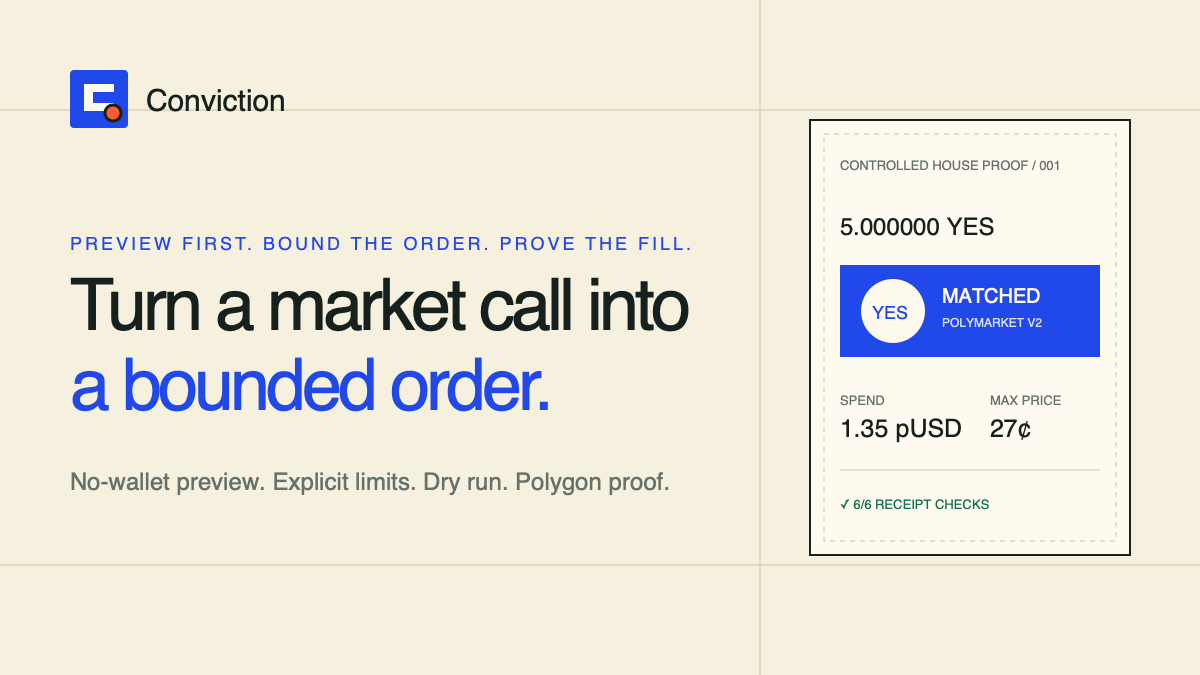
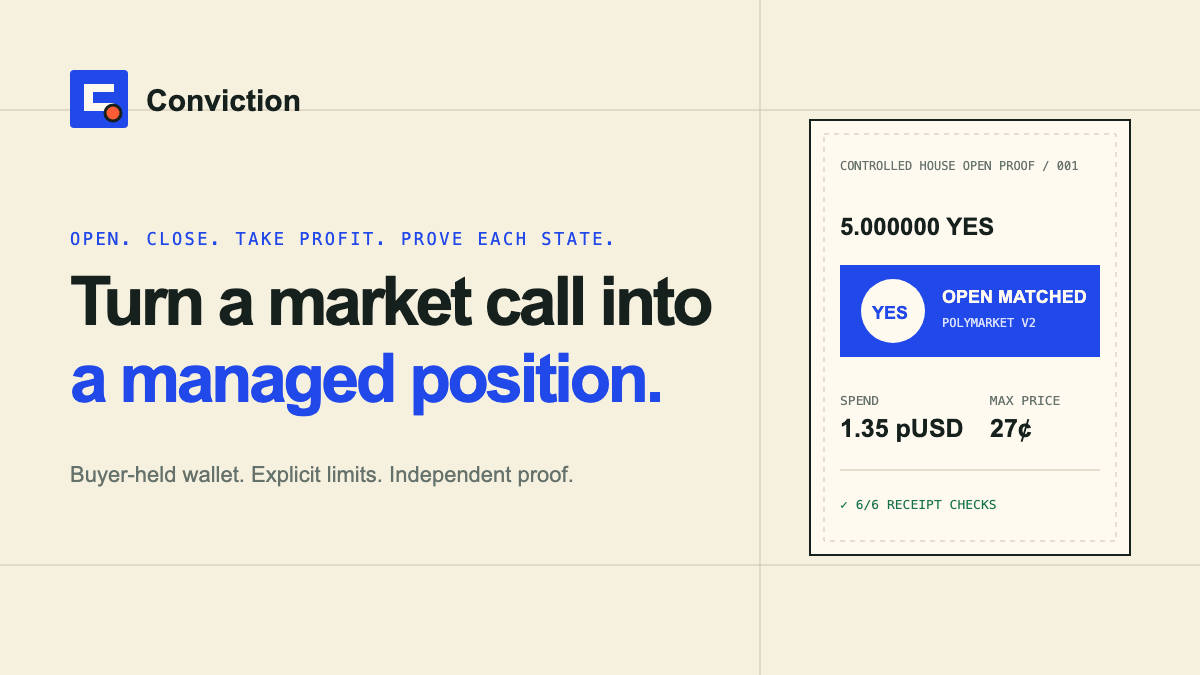
Polish managed-position launch surfaces

diff --git a/styles.css b/styles.css
@@ -9,7 +9,9 @@
   --orange: #c23c20;
   --green: #16734b;
   --shadow: 10px 10px 0 #16211e;
-  font-family: "Manrope", system-ui, sans-serif;
+  --font-sans: ui-sans-serif, system-ui, -apple-system, BlinkMacSystemFont, "Segoe UI", sans-serif;
+  --font-mono: ui-monospace, SFMono-Regular, Menlo, Monaco, Consolas, "Liberation Mono", monospace;
+  font-family: var(--font-sans);
   color: var(--ink);
   background: var(--paper);
   font-synthesis: none;
@@ -21,7 +23,7 @@ body { margin: 0; min-width: 320px; max-width: 100%; background: var(--paper); o
 a { color: inherit; }
 button, input, textarea { font: inherit; }
 button { cursor: pointer; }
-code { font-family: "DM Mono", monospace; }
+code { font-family: var(--font-mono); }
 
 .skip-link {
   position: fixed; left: 1rem; top: 1rem; z-index: 100;
@@ -40,7 +42,7 @@ code { font-family: "DM Mono", monospace; }
 nav { display: flex; gap: 1.8rem; }
 nav a { text-decoration: none; color: var(--muted); font-size: .92rem; font-weight: 700; }
 nav a:hover { color: var(--ink); }
-.network-pill { display: inline-flex; align-items: center; gap: .5rem; border: 1px solid var(--line); border-radius: 999px; padding: .48rem .75rem; font: 500 .72rem "DM Mono", monospace; text-transform: uppercase; }
+.network-pill { display: inline-flex; align-items: center; gap: .5rem; border: 1px solid var(--line); border-radius: 999px; padding: .48rem .75rem; font: 500 .72rem var(--font-mono); text-transform: uppercase; }
 .network-pill i { width: 8px; height: 8px; border-radius: 50%; background: var(--green); box-shadow: 0 0 0 4px rgb(22 115 75 / .12); }
 
 main { overflow: hidden; }
@@ -49,7 +51,7 @@ main { overflow: hidden; }
 }
 .hero { min-height: 690px; display: grid; grid-template-columns: 1.03fr .97fr; gap: 6vw; align-items: center; padding: 70px 0 90px; }
 .hero-copy { min-width: 0; }
-.eyebrow { margin: 0 0 1rem; font: 500 .76rem "DM Mono", monospace; letter-spacing: .12em; text-transform: uppercase; color: var(--blue); }
+.eyebrow { margin: 0 0 1rem; font: 500 .76rem var(--font-mono); letter-spacing: .12em; text-transform: uppercase; color: var(--blue); }
 h1, h2, h3, p { text-wrap: balance; }
 h1 { margin: 0; max-width: 780px; font-size: clamp(3.4rem, 6.7vw, 7.2rem); line-height: .91; letter-spacing: -.075em; }
 h1 em { font-style: normal; color: var(--blue); }
@@ -61,12 +63,12 @@ h1 em { font-style: normal; color: var(--blue); }
 .button-quiet { background: transparent; }
 .button-quiet:hover { background: var(--paper-bright); }
 .button:focus-visible, .dossier-button:focus-visible, a:focus-visible, input:focus-visible, textarea:focus-visible { outline: 3px solid var(--orange); outline-offset: 3px; }
-.trust-strip { display: flex; flex-wrap: wrap; gap: 1.4rem; list-style: none; padding: 0; margin: 2.1rem 0 0; color: var(--muted); font: 500 .73rem "DM Mono", monospace; }
+.trust-strip { display: flex; flex-wrap: wrap; gap: 1.4rem; list-style: none; padding: 0; margin: 2.1rem 0 0; color: var(--muted); font: 500 .73rem var(--font-mono); }
 .trust-strip li::before { content: "✓"; color: var(--green); margin-right: .45rem; font-weight: 800; }
 
 .fill-ticket { position: relative; padding: 1.35rem; background: var(--paper-bright); border: 1px solid var(--ink); box-shadow: var(--shadow); transform: rotate(1.4deg); }
 .fill-ticket::after { content: ""; position: absolute; inset: 8px; pointer-events: none; border: 1px dashed var(--line); }
-.ticket-topline, .ticket-proof { position: relative; z-index: 1; display: flex; align-items: center; justify-content: space-between; gap: 1rem; font: 500 .68rem "DM Mono", monospace; text-transform: uppercase; }
+.ticket-topline, .ticket-proof { position: relative; z-index: 1; display: flex; align-items: center; justify-content: space-between; gap: 1rem; font: 500 .68rem var(--font-mono); text-transform: uppercase; }
 .verified-mark { color: var(--green); border: 1px solid var(--green); padding: .32rem .55rem; transform: rotate(-4deg); }
 .fill-ticket h2 { position: relative; z-index: 1; margin: 3.8rem 0 2rem; max-width: 500px; font-size: clamp(1.65rem, 3vw, 2.6rem); line-height: 1.08; letter-spacing: -.045em; }
 .ticket-direction { position: relative; z-index: 1; display: flex; align-items: center; gap: 1rem; background: var(--blue); color: white; padding: 1rem; }
@@ -78,7 +80,7 @@ h1 em { font-style: normal; color: var(--blue); }
 .ticket-grid div { padding: .9rem; }
 .ticket-grid div:nth-child(odd) { border-right: 1px solid var(--line); }
 .ticket-grid div:nth-child(-n+2) { border-bottom: 1px solid var(--line); }
-.ticket-grid dt { color: var(--muted); font: 500 .66rem "DM Mono", monospace; text-transform: uppercase; }
+.ticket-grid dt { color: var(--muted); font: 500 .66rem var(--font-mono); text-transform: uppercase; }
 .ticket-grid dd { margin: .3rem 0 0; font-weight: 800; }
 .ticket-proof { padding-top: .7rem; text-transform: none; }
 .ticket-proof code { overflow: hidden; text-overflow: ellipsis; }
@@ -90,7 +92,7 @@ h1 em { font-style: normal; color: var(--blue); }
 .loop-steps { list-style: none; padding: 0; margin: 3.5rem 0 0; display: grid; grid-template-columns: repeat(4, 1fr); border: 1px solid var(--ink); }
 .loop-steps li { min-height: 240px; padding: 1.4rem; background: var(--paper-bright); border-right: 1px solid var(--ink); }
 .loop-steps li:last-child { border-right: 0; }
-.loop-steps span { font: 500 .72rem "DM Mono", monospace; color: var(--orange); }
+.loop-steps span { font: 500 .72rem var(--font-mono); color: var(--orange); }
 .loop-steps h3 { margin: 4.8rem 0 .65rem; font-size: 1.08rem; }
 .loop-steps p { margin: 0; color: var(--muted); line-height: 1.55; font-size: .9rem; }
 
@@ -100,7 +102,7 @@ h1 em { font-style: normal; color: var(--blue); }
 .proof-links { display: flex; flex-wrap: wrap; gap: .25rem 1.25rem; }
 .receipt-ledger { align-self: center; border-top: 2px solid var(--ink); background: var(--paper-bright); }
 .receipt-ledger > div { display: grid; grid-template-columns: 44px 1fr auto; gap: .6rem; align-items: center; padding: 1rem .8rem; border-bottom: 1px solid var(--line); }
-.receipt-ledger span, .receipt-ledger b { font: 500 .7rem "DM Mono", monospace; }
+.receipt-ledger span, .receipt-ledger b { font: 500 .7rem var(--font-mono); }
 .receipt-ledger b { color: var(--green); }
 .receipt-ledger footer { padding: 1rem .8rem; display: grid; gap: .45rem; background: var(--ink); color: white; }
 .receipt-ledger footer span { color: #aab5af; }
@@ -110,7 +112,7 @@ h1 em { font-style: normal; color: var(--blue); }
 .journey-progress { display: grid; grid-template-columns: repeat(4, 1fr); list-style: none; padding: 0; margin: 3rem 0 0; border: 1px solid var(--line); background: var(--paper-bright); }
 .journey-progress li { display: flex; align-items: center; gap: .65rem; padding: .8rem; border-right: 1px solid var(--line); color: var(--muted); font-size: .78rem; font-weight: 800; }
 .journey-progress li:last-child { border-right: 0; }
-.journey-progress span { display: grid; place-items: center; width: 24px; height: 24px; border: 1px solid var(--line); border-radius: 50%; font: 500 .65rem "DM Mono", monospace; }
+.journey-progress span { display: grid; place-items: center; width: 24px; height: 24px; border: 1px solid var(--line); border-radius: 50%; font: 500 .65rem var(--font-mono); }
 .journey-progress .is-current { color: var(--blue); background: #edf0ff; }
 .journey-progress .is-current span { color: white; border-color: var(--blue); background: var(--blue); }
 .journey-progress .is-complete { color: var(--green); }
@@ -120,11 +122,11 @@ h1 em { font-style: normal; color: var(--blue); }
 .intent-form { display: grid; gap: 1rem; padding: 1.5rem; border-bottom: 1px solid var(--line); }
 .journey-controls > :last-child { border-bottom: 0; }
 .intent-form label { display: grid; gap: .45rem; font-size: .78rem; font-weight: 800; }
-.intent-form input, .intent-form textarea { width: 100%; border: 1px solid var(--line); border-radius: 0; padding: .8rem; background: #fffdf8; color: var(--ink); font-family: "DM Mono", monospace; font-size: .78rem; }
+.intent-form input, .intent-form textarea { width: 100%; border: 1px solid var(--line); border-radius: 0; padding: .8rem; background: #fffdf8; color: var(--ink); font-family: var(--font-mono); font-size: .78rem; }
 .intent-form input[type="file"] { padding: .65rem; }
 .intent-form [aria-invalid="true"] { border: 2px solid var(--orange); box-shadow: 0 0 0 2px rgb(194 60 32 / .16); }
 .intent-form textarea { resize: vertical; line-height: 1.55; }
-.stage-heading > span { color: var(--blue); font: 500 .66rem "DM Mono", monospace; letter-spacing: .1em; text-transform: uppercase; }
+.stage-heading > span { color: var(--blue); font: 500 .66rem var(--font-mono); letter-spacing: .1em; text-transform: uppercase; }
 .stage-heading h3, .stage-heading h4 { margin: .4rem 0; font-size: 1.15rem; }
 .stage-heading p { margin: 0; color: var(--muted); font-size: .84rem; line-height: 1.55; }
 .stage-actions { display: flex; flex-wrap: wrap; gap: .75rem; }
@@ -135,7 +137,7 @@ h1 em { font-style: normal; color: var(--blue); }
 .market-quotes { display: grid; grid-template-columns: 1fr 1fr; gap: .75rem; margin-top: 1rem; }
 .market-quotes div { padding: 1rem; border: 1px solid var(--line); background: var(--paper-bright); }
 .market-quotes span, .market-quotes strong, .market-quotes small { display: block; }
-.market-quotes span { color: var(--blue); font: 800 .72rem "DM Mono", monospace; }
+.market-quotes span { color: var(--blue); font: 800 .72rem var(--font-mono); }
 .market-quotes strong { margin-top: .4rem; font-size: 1.35rem; }
 .market-quotes small { margin-top: .15rem; color: var(--muted); }
 .field-row { display: grid; grid-template-columns: 1fr 1fr; gap: 1rem; }
@@ -143,7 +145,7 @@ h1 em { font-style: normal; color: var(--blue); }
 .outcome-selector legend { padding: 0 .35rem; font-size: .78rem; font-weight: 800; }
 .outcome-selector label { position: relative; display: block; cursor: pointer; }
 .outcome-selector input { position: absolute; opacity: 0; pointer-events: none; }
-.outcome-selector span { display: grid; place-items: center; min-height: 46px; border: 1px solid var(--line); background: #fffdf8; color: var(--muted); font: 800 .82rem "DM Mono", monospace; }
+.outcome-selector span { display: grid; place-items: center; min-height: 46px; border: 1px solid var(--line); background: #fffdf8; color: var(--muted); font: 800 .82rem var(--font-mono); }
 .outcome-selector input:checked + span { background: var(--blue); border-color: var(--blue); color: white; box-shadow: 3px 3px 0 var(--ink); }
 .outcome-selector input:focus-visible + span { outline: 3px solid var(--orange); outline-offset: 3px; }
 .compiled-card { min-width: 0; min-height: 520px; padding: 1.5rem; display: grid; align-content: start; background-image: linear-gradient(var(--line) 1px, transparent 1px), linear-gradient(90deg, var(--line) 1px, transparent 1px); background-size: 28px 28px; }
@@ -153,34 +155,34 @@ h1 em { font-style: normal; color: var(--blue); }
 .compiled-empty p, .form-status { color: var(--muted); font-size: .85rem; line-height: 1.6; }
 #compiled-result, #preview-result { min-width: 0; background: var(--paper-bright); border: 1px solid var(--ink); padding: 1.2rem; }
 .result-top { display: flex; justify-content: space-between; align-items: center; gap: 1rem; }
-.result-top b { color: var(--green); font: 500 .72rem "DM Mono", monospace; }
+.result-top b { color: var(--green); font: 500 .72rem var(--font-mono); }
 .result-market { margin: 1.8rem 0; font-size: 1.35rem; line-height: 1.2; }
 .result-order { display: grid; grid-template-columns: repeat(3, 1fr); border: 1px solid var(--line); }
 .result-order div { padding: .8rem; border-right: 1px solid var(--line); }
 .result-order div:last-child { border-right: 0; }
 .result-order small, .result-order strong { display: block; }
-.result-order small { color: var(--muted); font: 500 .64rem "DM Mono", monospace; text-transform: uppercase; }
+.result-order small { color: var(--muted); font: 500 .64rem var(--font-mono); text-transform: uppercase; }
 .result-order strong { margin-top: .3rem; }
 .exposure-panel { display: grid; grid-template-columns: repeat(3, 1fr); margin-top: 1rem; border: 1px solid var(--line); }
 .exposure-panel div { min-width: 0; padding: .7rem; border-right: 1px solid var(--line); border-bottom: 1px solid var(--line); }
 .exposure-panel div:nth-child(3n) { border-right: 0; }
 .exposure-panel div:nth-last-child(-n+2) { border-bottom: 0; }
 .exposure-panel small, .exposure-panel strong { display: block; }
-.exposure-panel small { color: var(--muted); font: 500 .6rem "DM Mono", monospace; text-transform: uppercase; }
+.exposure-panel small { color: var(--muted); font: 500 .6rem var(--font-mono); text-transform: uppercase; }
 .exposure-panel strong { margin-top: .28rem; overflow-wrap: anywhere; font-size: .82rem; }
 .result-hash { margin-top: 1.2rem; padding: .8rem; background: var(--ink); color: white; }
-.result-hash span { display: block; color: #aab5af; font: 500 .63rem "DM Mono", monospace; }
+.result-hash span { display: block; color: #aab5af; font: 500 .63rem var(--font-mono); }
 .result-hash code { display: block; margin-top: .4rem; overflow-wrap: anywhere; font-size: .68rem; }
 .dossier-button { width: 100%; margin-top: .8rem; padding: .72rem; border: 1px solid var(--ink); background: transparent; color: var(--ink); font-weight: 800; }
 .dossier-button:hover { background: var(--ink); color: white; }
 .notice { display: grid; gap: .3rem; margin-top: 1rem; padding: .85rem; border-left: 4px solid var(--blue); background: #edf0ff; font-size: .8rem; line-height: 1.5; }
 .notice-safe { border-left-color: var(--green); background: #edf8f1; }
-.quote-expiry { margin: 1rem 0 0; color: var(--green); font: 500 .72rem "DM Mono", monospace; }
+.quote-expiry { margin: 1rem 0 0; color: var(--green); font: 500 .72rem var(--font-mono); }
 .quote-expiry.is-expired { color: var(--orange); }
 .bounds-acknowledgement { display: grid; grid-template-columns: 22px 1fr; gap: .75rem; align-items: start; margin-top: 1rem; padding: .9rem; border: 1px solid var(--ink); background: #fffdf8; font-size: .8rem; font-weight: 800; line-height: 1.5; }
 .bounds-acknowledgement input { width: 18px; height: 18px; margin: .12rem 0 0; accent-color: var(--blue); }
 .handoff-panel { margin-top: 1rem; padding: 1rem; border: 1px solid var(--ink); background: var(--paper-bright); }
-.handoff-panel textarea { width: 100%; margin-top: 1rem; padding: .8rem; border: 1px solid var(--line); background: #f3f3ef; color: var(--ink); font: 500 .69rem/1.55 "DM Mono", monospace; resize: vertical; }
+.handoff-panel textarea { width: 100%; margin-top: 1rem; padding: .8rem; border: 1px solid var(--line); background: #f3f3ef; color: var(--ink); font: 500 .69rem/1.55 var(--font-mono); resize: vertical; }
 .handoff-panel .stage-actions { margin-top: .8rem; }
 .handoff-links { display: flex; flex-wrap: wrap; gap: .8rem 1.2rem; margin-top: 1rem; }
 .handoff-links a { color: var(--blue); font-size: .78rem; font-weight: 800; text-underline-offset: 3px; }
@@ -194,7 +196,7 @@ h1 em { font-style: normal; color: var(--blue); }
 .verification-proof h3 { margin: 1.5rem 0; font-size: 1.35rem; }
 .check-list { list-style: none; padding: 0; margin: 1rem 0 0; border-top: 1px solid var(--line); }
 .check-list li { display: flex; justify-content: space-between; gap: 1rem; padding: .7rem 0; border-bottom: 1px solid var(--line); font-size: .75rem; }
-.check-list b { color: var(--green); font-family: "DM Mono", monospace; }
+.check-list b { color: var(--green); font-family: var(--font-mono); }
 .verification-proof .stage-actions { margin-top: 1rem; }
 
 .safety-section { padding: 100px 0; display: grid; grid-template-columns: 1fr 1fr; gap: 7vw; border-top: 1px solid var(--line); }
@@ -209,10 +211,29 @@ h1 em { font-style: normal; color: var(--blue); }
 .policy-page h2 { margin: 0 0 .8rem; font-size: 1.35rem; }
 .policy-page p { color: #46534d; line-height: 1.75; text-wrap: pretty; }
 .policy-page a { color: var(--blue); font-weight: 800; text-underline-offset: 3px; }
-.policy-updated { font: 500 .74rem "DM Mono", monospace; }
+.policy-updated { font: 500 .74rem var(--font-mono); }
 
 @media (max-width: 860px) {
-  .site-header nav { display: none; }
+  .site-header { flex-wrap: wrap; gap: .65rem; padding: .7rem 0 .8rem; }
+  .site-header nav {
+    order: 3;
+    display: grid;
+    grid-template-columns: repeat(5, minmax(0, 1fr));
+    width: 100%;
+    gap: .3rem;
+  }
+  .site-header nav a {
+    display: grid;
+    min-width: 0;
+    min-height: 40px;
+    place-items: center;
+    padding: .45rem .2rem;
+    border: 1px solid var(--line);
+    background: var(--paper-bright);
+    font-size: clamp(.61rem, 2.4vw, .76rem);
+    line-height: 1.15;
+    text-align: center;
+  }
   .hero { grid-template-columns: 1fr; gap: 4rem; padding-top: 55px; }
   .fill-ticket { max-width: 600px; transform: none; }
   .loop-steps { grid-template-columns: 1fr 1fr; }
@@ -225,7 +246,7 @@ h1 em { font-style: normal; color: var(--blue); }
 
 @media (max-width: 560px) {
   .site-header, .site-footer, .hero, .loop, .proof-section, .compiler-section, .verification-section, .safety-section { width: min(100% - 28px, 1240px); }
-  .site-header { min-height: 70px; }
+  .site-header { min-height: 0; }
   .network-pill { width: 34px; height: 34px; justify-content: center; padding: 0; font-size: 0; }
   .hero { min-height: auto; padding: 50px 0 70px; }
   .hero-copy { width: 100%; max-width: 100%; }

diff --git a/privacy.html b/privacy.html
@@ -6,8 +6,24 @@
     <title>Privacy — Conviction</title>
     <meta name="description" content="What Conviction processes when it previews, opens, closes, manages, or verifies a bounded Polygon prediction-market position." />
     <meta name="robots" content="index,follow" />
-    <link rel="canonical" href="https://conviction-bay.vercel.app/privacy.html" />
+    <link rel="canonical" href="https://conviction-bay.vercel.app/privacy" />
+    <meta property="og:type" content="website" />
+    <meta property="og:url" content="https://conviction-bay.vercel.app/privacy" />
+    <meta property="og:title" content="Privacy — Conviction" />
+    <meta property="og:description" content="What Conviction processes when it previews, opens, closes, manages, or verifies a bounded Polygon prediction-market position." />
+    <meta property="og:image" content="https://conviction-bay.vercel.app/assets/conviction-og.png" />
+    <meta property="og:image:width" content="1200" />
+    <meta property="og:image:height" content="675" />
+    <meta property="og:image:alt" content="Conviction managed-position product card beside a controlled house YES fill." />
+    <meta name="twitter:card" content="summary_large_image" />
+    <meta name="twitter:title" content="Privacy — Conviction" />
+    <meta name="twitter:description" content="What Conviction processes when it previews, opens, closes, manages, or verifies a bounded Polygon prediction-market position." />
+    <meta name="twitter:image" content="https://conviction-bay.vercel.app/assets/conviction-og.png" />
+    <meta name="twitter:image:alt" content="Conviction managed-position product card beside a controlled house YES fill." />
     <link rel="icon" href="/assets/conviction-logo.svg" type="image/svg+xml" />
+    <link rel="icon" href="/assets/conviction-icon-32.png" type="image/png" sizes="32x32" />
+    <link rel="apple-touch-icon" href="/assets/apple-touch-icon.png" sizes="180x180" />
+    <link rel="manifest" href="/manifest.webmanifest" />
     <link rel="stylesheet" href="/styles.css" />
   </head>
   <body>

diff --git a/terms.html b/terms.html
@@ -6,8 +6,24 @@
     <title>Terms — Conviction</title>
     <meta name="description" content="The operational boundaries for Conviction bounded prediction-market OPEN, CLOSE, and TAKE_PROFIT cards." />
     <meta name="robots" content="index,follow" />
-    <link rel="canonical" href="https://conviction-bay.vercel.app/terms.html" />
+    <link rel="canonical" href="https://conviction-bay.vercel.app/terms" />
+    <meta property="og:type" content="website" />
+    <meta property="og:url" content="https://conviction-bay.vercel.app/terms" />
+    <meta property="og:title" content="Terms — Conviction" />
+    <meta property="og:description" content="The operational boundaries for Conviction bounded prediction-market OPEN, CLOSE, and TAKE_PROFIT cards." />
+    <meta property="og:image" content="https://conviction-bay.vercel.app/assets/conviction-og.png" />
+    <meta property="og:image:width" content="1200" />
+    <meta property="og:image:height" content="675" />
+    <meta property="og:image:alt" content="Conviction managed-position product card beside a controlled house YES fill." />
+    <meta name="twitter:card" content="summary_large_image" />
+    <meta name="twitter:title" content="Terms — Conviction" />
+    <meta name="twitter:description" content="The operational boundaries for Conviction bounded prediction-market OPEN, CLOSE, and TAKE_PROFIT cards." />
+    <meta name="twitter:image" content="https://conviction-bay.vercel.app/assets/conviction-og.png" />
+    <meta name="twitter:image:alt" content="Conviction managed-position product card beside a controlled house YES fill." />
     <link rel="icon" href="/assets/conviction-logo.svg" type="image/svg+xml" />
+    <link rel="icon" href="/assets/conviction-icon-32.png" type="image/png" sizes="32x32" />
+    <link rel="apple-touch-icon" href="/assets/apple-touch-icon.png" sizes="180x180" />
+    <link rel="manifest" href="/manifest.webmanifest" />
     <link rel="stylesheet" href="/styles.css" />
   </head>
   <body>

diff --git a/index.html b/index.html
@@ -22,7 +22,7 @@
     <meta property="og:image" content="https://conviction-bay.vercel.app/assets/conviction-og.png" />
     <meta property="og:image:width" content="1200" />
     <meta property="og:image:height" content="675" />
-    <meta property="og:image:alt" content="Conviction execution card showing a bounded Polymarket YES fill." />
+    <meta property="og:image:alt" content="Conviction managed-position product card beside a controlled house YES fill." />
     <meta name="twitter:card" content="summary_large_image" />
     <meta name="twitter:title" content="Conviction — Choose the position. Bound every order. Prove the result." />
     <meta
@@ -30,7 +30,7 @@
       content="Open or close with verified Polygon fills, or arm take profit with authenticated CLOB evidence and prove any later fill."
     />
     <meta name="twitter:image" content="https://conviction-bay.vercel.app/assets/conviction-og.png" />
-    <meta name="twitter:image:alt" content="Conviction execution card showing a bounded Polymarket YES fill." />
+    <meta name="twitter:image:alt" content="Conviction managed-position product card beside a controlled house YES fill." />
     <link rel="icon" href="/assets/conviction-logo.svg" type="image/svg+xml" />
     <link rel="icon" href="/assets/conviction-icon-32.png" type="image/png" sizes="32x32" />
     <link rel="apple-touch-icon" href="/assets/apple-touch-icon.png" sizes="180x180" />